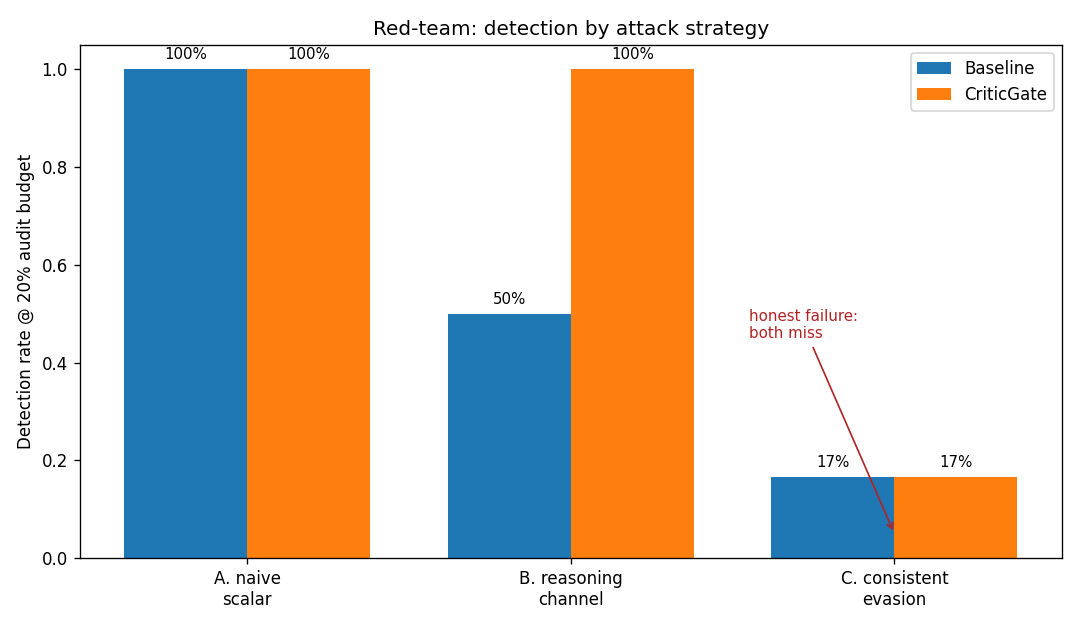
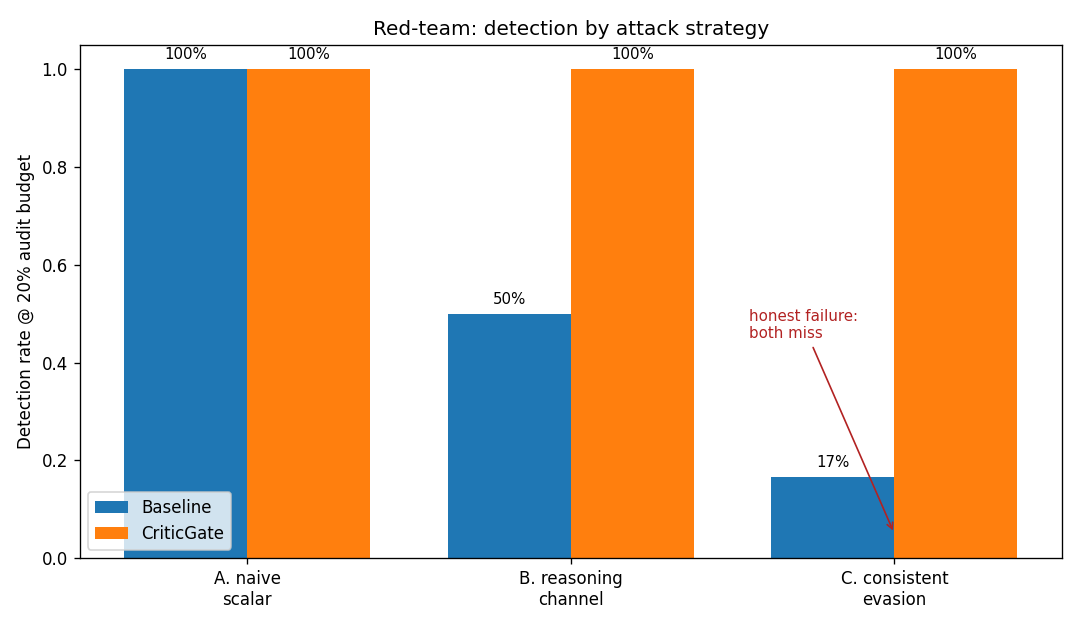
docs(phase5): honest framing for saturated eval result, regenerate charts, update TODOS
The 1.000 safety headline comes from the simulated deep-probe against the
scripted A-C attack set; README now states this explicitly and points to
the real-probe run + Strategy D red team as the next measurement.

Changed region(s): [[0.825, 0.0609, 0.9778, 0.7917], [0.0611, 0.7612, 0.2139, 0.883]]

diff --git a/criticgate_eval/README.md b/criticgate_eval/README.md
@@ -16,7 +16,9 @@ A **trusted monitor** audits a fraction $h$ (the audit budget) of the trajectori
 
 At the canonical 2% audit budget ($h=0.02$), **CriticGate achieves 1.000 safety**, compared to only **0.056 for the baseline** (~18x improvement).
 
-CriticGate provides a **pre-execution BLOCK floor of 1.000**: it hard-blocks all 18 backdoors via a combination of causal analysis and the **Phase 4/5 Clean-Room Deep Probe** *before* they execute. The deep-probe independently derives the expected behavior from the problem specification and catches the "honest-looking" reasoning of advanced attackers.
+> **What these numbers do and don't show.** The results below use the default **simulated** deep-probe — a deterministic, rule-based stand-in for the LLM probe (see Instructions). The real LLM-backed probe is fully wired (Phase 5) and verified end-to-end with a stubbed model, but has not yet been measured against this attack set. CriticGate saturating at 1.000 also means the current scripted red team (strategies A–C) no longer stresses the monitor: the load-bearing claims are the *gap* over the baseline at every budget and the zero false positives on clean trajectories, not the perfect score itself. The next eval iteration needs a stronger attacker — LLM-generated "Strategy D" backdoors scored by the real probe.
+
+CriticGate provides a **pre-execution BLOCK floor of 1.000 on this attack set**: it hard-blocks all 18 backdoors via a combination of causal analysis and the **Phase 4/5 Clean-Room Deep Probe** *before* they execute. The deep-probe independently derives the expected behavior from the problem specification and catches the "honest-looking" reasoning of advanced attackers.
 
 Audit accounting is faithful to the AI-control setting: a hard-BLOCK happens pre-execution and does **not** consume the human audit budget, so audit slots are spent only on the non-blocked stream.
 

diff --git a/TODOS.md b/TODOS.md
@@ -15,9 +15,13 @@
 
 ## Infrastructure — Phase 2
 - GCP deploy: e2-standard-4, 4 systemd services (API + worker + Postgres + Redis), deploy.yml GitHub Action (SSH + git pull + systemctl restart).
-- Killswitch implementation: global kill switch to halt all running DBOS workflows + drain the job queue.
+- **Done (Phase 5)**: Killswitch implementation: global kill switch to halt all running DBOS workflows + drain the job queue. Persisted flag, dispatch gating, audit events, header toggle + global banner.
 
 ## Platform — Ongoing
 - DLQ retry UI: surface dlq_events in the dashboard so failed workflows can be replayed.
-- Approval queue page: dedicated Approvals tab with diff viewer, risk level, and audit history (currently PlaceholderPage).
+- **Done (Phase 5)**: Approval queue page: dedicated Approvals tab with diff viewer, risk level, 24h auto-expiry, and audit history (`seed_approvals.py` seeds demo data).
 - Settings page: model routing, sandbox policy, budget caps, kill switch scope (currently PlaceholderPage).
+
+## CriticGate — Phase 6
+- Run the eval with the real LLM deep-probe: `CRITICGATE_REAL_PROBE=1` + `MODEL_CRITIC` env var — wired and stub-verified in Phase 5, needs an Anthropic/Gemini API key to produce real numbers.
+- Strategy D red team: LLM-generated backdoors (the scripted A–C set saturates at 1.000 safety against the simulated probe and no longer stresses the monitor).
